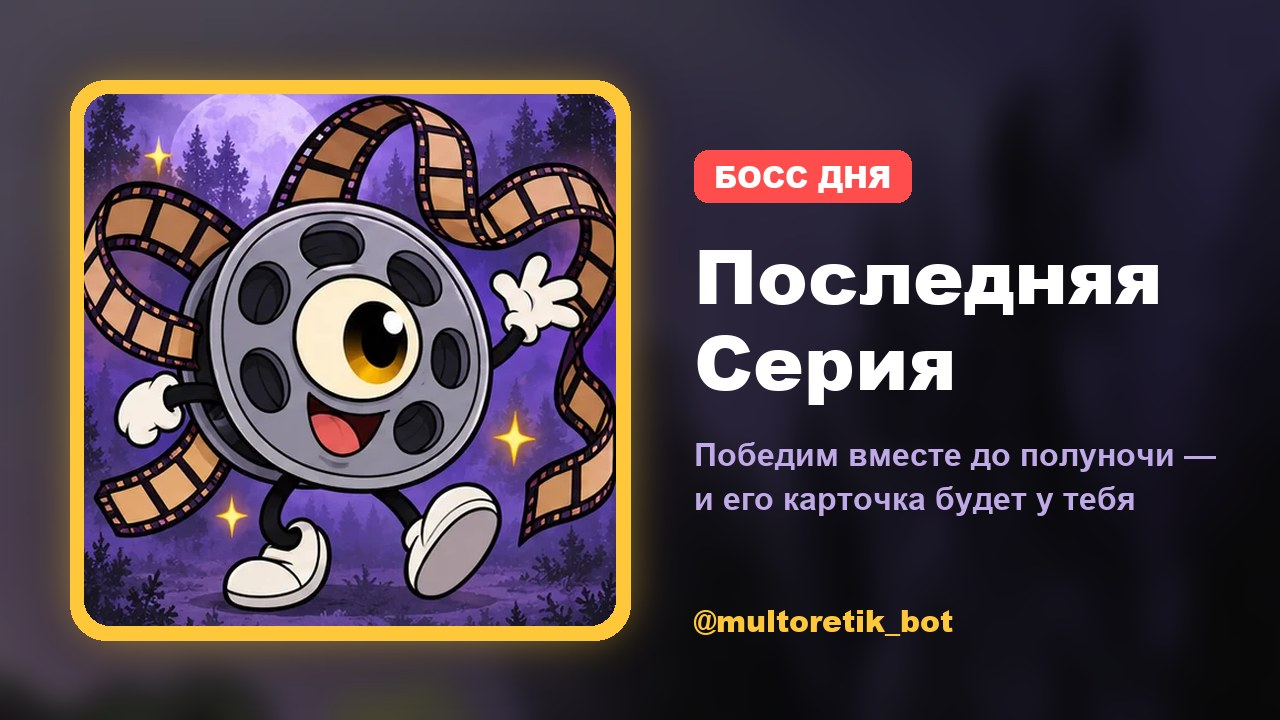
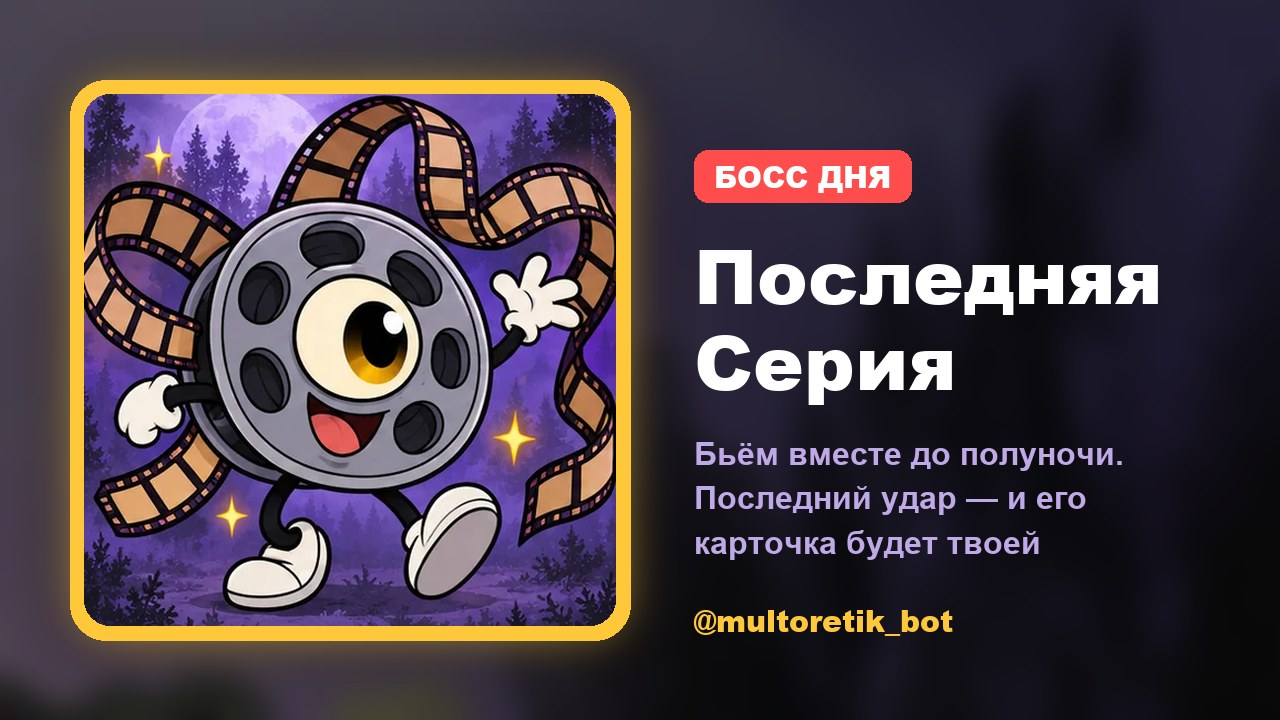
Карточка босса — только за последний удар, участникам — редкая карточка и монеты

Changed region(s): [[0.5312, 0.6111, 0.9375, 0.7944]]

diff --git a/web/index.html b/web/index.html
@@ -641,13 +641,13 @@ async function loadBoss(quiet) {
 function renderBoss() {
   const b = B.st;
   if (!b || !b.card) { $("#boss").innerHTML = `<div class="muted">Босс скоро появится</div>`; return; }
-  const claim = b.canClaim ? `<button class="btn gold" id="bclaim">${icon("i-gift")}Забрать карточку босса</button>`
-    : b.defeated && b.claimed ? `<p class="muted" style="margin-top:12px">Карточка у тебя. Завтра — новый босс</p>`
+  const claim = b.canClaim ? `<button class="btn gold" id="bclaim">${icon("i-gift")}${b.killer ? "Забрать карточку босса" : "Забрать награду"}</button>`
+    : b.defeated && b.claimed ? `<p class="muted" style="margin-top:12px">Награда у тебя. Завтра — новый босс</p>`
     : b.defeated ? `<p class="muted" style="margin-top:12px">Победили без тебя — завтра новый босс</p>` : "";
   $("#boss").innerHTML = `<div class="bh"><span class="badge2">${icon("i-sword", 18)}Босс дня</span><span class="muted" id="bleft">${b.defeated ? "повержен" : "сбежит через " + mskLeft()}</span></div>
     <button class="bossart ${b.defeated ? "dead" : ""}" id="bossart" aria-label="Ударить босса">${cardHtml(b.card, 0, true)}${b.defeated ? `<span class="deadtag">Повержен!</span>` : ""}</button>
     <div class="hp"><i id="hpbar"></i><span id="hptext"></span></div>
-    <div class="bmeta"><span>твои удары: <b id="bmy">0</b></span><span>${b.need}+ ударов — карточка твоя</span></div>
+    <div class="bmeta"><span>твои удары: <b id="bmy">0</b></span><span>последний удар — карточка босса</span></div>
     ${claim}<div class="btop" id="btop"></div>`;
   updBoss();
   const art = $("#bossart");
@@ -658,7 +658,7 @@ function renderBoss() {
     const r = await call("boss_claim");
     if (r.error) { toast(r.error); $("#bclaim").disabled = false; return; }
     B.st.canClaim = false; B.st.claimed = true; renderBoss();
-    drop("Босс повержен!", `+${r.coins} монет${r.killer ? " · за последний удар — ещё карточка" : ""}`, r.cards);
+    drop(r.killer ? "Последний удар — твой!" : "Босс повержен!", `+${r.coins} монет · ${r.killer ? "карточка босса твоя" : "награда за командную победу"}`, r.cards);
   };
 }
 function updBoss() {

diff --git a/supabase/functions/bot/index.ts b/supabase/functions/bot/index.ts
@@ -312,9 +312,10 @@ async function bossClaim(u: TgUser) {
   const { data: ok } = await db.from("boss_hits").update({ claimed: true }).eq("day", b.day).eq("tg_id", u.id)
     .eq("claimed", false).gte("hits", BOSS_MIN_HITS).select("tg_id");
   if (!ok?.length) return json({ error: `Награда — тем, кто нанёс от ${BOSS_MIN_HITS} ударов` }, 400);
-  const bc = (await cards()).find((c) => c.id === b.card_id);   // каждому участнику — сама карточка босса
-  const list = bc ? [bc] : [];
-  if (b.last_hit_by === u.id) list.push(...(await roll(1, true)));   // последний удар — ещё и редкая
+  // 07.11 пользователь: «если ты побьёшь злодея — только тебе карточка, а не всем»: карточка босса — за последний удар,
+  // остальным участникам (от BOSS_MIN_HITS ударов) — случайная редкая или лучше и монеты
+  const bc = (await cards()).find((c) => c.id === b.card_id);
+  const list = b.last_hit_by === u.id && bc ? [bc] : await roll(1, true);
   return json({ ok: true, cards: await give(u.id, list, 15), coins: 15, killer: b.last_hit_by === u.id });
 }
 
@@ -398,7 +399,7 @@ async function announceBoss() {
   const card = (await cards()).find((c) => c.id === b.card_id);
   if (!card) return 0;
   const { data: users } = await db.from("users").select("tg_id").eq("notify", true).eq("blocked", false).limit(5000);
-  const text = `⚔ Новый босс дня — «${card.name}»!\n\nБьём его все вместе до полуночи. Победим — каждый, кто нанёс от ${BOSS_MIN_HITS} ударов, получит эту карточку себе в коллекцию.\n\nЗаходи и жми по боссу 👇`;
+  const text = `⚔ Новый босс дня — «${card.name}»!\n\nБьём его все вместе до полуночи. Кто нанесёт последний удар — заберёт его карточку себе! Остальным, кто нанёс от ${BOSS_MIN_HITS} ударов, — редкая карточка и монеты.\n\nЗаходи и жми по боссу 👇`;
   const reply_markup = { inline_keyboard: [[{ text: "⚔ Бить босса", web_app: { url: `${APP}?tab=games` } }]] };
   let sent = 0;
   for (const [i, us] of (users || []).entries()) {

diff --git a/tools/gen_sheets_3.py b/tools/gen_sheets_3.py
@@ -1,0 +1,79 @@
+"""07.11.2026: ещё 54 карточки (листы 18–26) — пользователь: «добавил бы побольше карточек, пока всего 100».
+Половина — злодеи из уже вышедших серий сети (зритель видел «Странного парикмахера» в ролике — теперь может его собрать),
+плюс свои наборы для ПеппаРетика, БарбоРетика, SOIKAC и Анти Котополиса, где карточек меньше всего.
+Рисует так же, как tools/gen_sheets_2.py (ChatGPT, образцы стиля art/sheet1.png и art/sheet5.png).
+Запускать, когда RETIKO не делает роликов (ночью): отдельный процесс не делит очередь браузера с роликами.
+python tools/gen_sheets_3.py [номера листов]    → art/sheetN.png + art/cartoon_cards.json; нарезка и база — tools/cut_cards.py"""
+import os, sys
+sys.path.insert(0, os.path.dirname(os.path.abspath(__file__)))
+import gen_sheets_2 as G
+
+C, R, E, L = 'common', 'rare', 'epic', 'legend'
+G.SHEETS = {
+    18: ('КотоРетик', 'злодеев из удалённых серий мультсериала «Три кота»', [
+        ('kr-kurer', 'Ночной курьер', R, 'кот-курьер в кепке с огромной коробкой, из щели коробки светятся глаза'),
+        ('kr-parikmaher', 'Странный парикмахер', E, 'кот-парикмахер с ножницами-расчёсками в обеих лапах, улыбка слишком широкая, зеркало за ним пустое'),
+        ('kr-doktor', 'Странный доктор', R, 'кот-доктор в белом халате и маске, стетоскоп шевелится как змейка, очки светятся'),
+        ('kr-printer', 'Странный принтер', C, 'домашний принтер с кошачьими ушами, из лотка выползает лист с нарисованным глазом'),
+        ('kr-telefon', 'Странный телефон', C, 'старый кнопочный телефон с кошачьим хвостом, на экране светится «звонит ты»'),
+        ('kr-lishniy', 'Лишний котёнок', R, 'четвёртый котёнок, похожий сразу на всех трёх, стоит в темноте коридора')]),
+    19: ('МультоРетик', 'злодеев из удалённых серий «Три кота» на канале МультоРетик', [
+        ('mr-ded-zaranee', 'Дедушка, который знает заранее', E, 'кот-дедушка-моряк в кресле, не моргает, над ним облачко со следующим вопросом'),
+        ('mr-slasten', 'Повар Сластён', R, 'кот-повар в колпаке с половником, в кастрюле светится что-то сладкое и тянется к зрителю'),
+        ('mr-uchitelnica', 'Странная учительница', R, 'кошка-учительница с указкой у доски, на доске нарисованы три котёнка и знак вопроса'),
+        ('mr-drugaya-karamelka', 'Другая Карамелька', E, 'кошечка в розовом платье с бантом, отражение в луже — другое, оно машет'),
+        ('mr-babushka-ranshe', 'Бабушка, приехавшая раньше', C, 'кошка-бабушка с чемоданом стоит в дверях ночью, за окном ещё светит луна'),
+        ('mr-mama-ne-morgaet', 'Мама, которая не моргает', L, 'кошка-мама в фартуке смотрит прямо на зрителя огромными немигающими глазами, золотое сияние')]),
+    20: ('СмешаРетик', 'злодеев из удалённых серий мультсериала «Смешарики»', [
+        ('sr-nenast-barash', 'Ненастоящий Бараш', R, 'баран-поэт с блокнотом, рога закручены в другую сторону, буквы в блокноте ползут'),
+        ('sr-zavodnaya-nyusha', 'Заводная Нюша', E, 'свинка Нюша как заводная кукла, из спины торчит большой ключ, движения дёрганые'),
+        ('sr-nenast-karkarych', 'Ненастоящий Кар-Карыч', R, 'ворон в цилиндре, перья как вырезанные из бумаги, тень без цилиндра'),
+        ('sr-zastyvshaya', 'Застывшая Пандочка', C, 'маленькая панда замерла посреди шага, вокруг неё застыли в воздухе снежинки'),
+        ('sr-zavodnoy-karkarych', 'Заводной Кар-Карыч', C, 'ворон-шарманщик с заводной шарманкой, из шарманки вылетают ноты-глазки'),
+        ('sr-sovunya-polnoch', 'Совунья в полночь', E, 'сова-бабушка в очках и шали, за ней часы, стрелки показывают 13')]),
+    21: ('ПеппаРетик', 'злодеев из удалённых серий мультсериала «Свинка Пеппа»', [
+        ('pp-papa-nochnoy', 'Ночной Папа Свин', E, 'папа-свин стоит в тёмной кухне с фонариком, свет фонарика падает только на его улыбку'),
+        ('pp-strannyi-george', 'Странный Джордж', R, 'маленький поросёнок Джордж с игрушечным динозавром, у динозавра настоящие светящиеся глаза'),
+        ('pp-nenast-suzi', 'Ненастоящая Сьюзи', R, 'овечка Сьюзи, шерсть из ваты, на боку видна застёжка-молния'),
+        ('pp-ded-golos', 'Дедушка с другим голосом', E, 'дедушка-свин в фуражке говорит в рупор, из рупора выходят чужие тёмные волны звука'),
+        ('pp-pedro', 'Педро Пони-Ретик', C, 'пони в очках, очки запотели изнутри, за стёклами две светящиеся точки'),
+        ('pp-denni', 'Дэнни Пёс-Ретик', C, 'щенок-моряк в бескозырке, тень от него — большой волк')]),
+    22: ('ПеппаРетик', 'героев мультсериала «Свинка Пеппа»', [
+        ('pp-zoe', 'Зои Зебра-Ретик', C, 'зебра-девочка, полоски на ней медленно меняют направление'),
+        ('pp-kendi', 'Кэнди Кошка-Ретик', C, 'кошечка в платье с бантом держит шарик, на шарике нарисовано её лицо'),
+        ('pp-gazel', 'Мадам Газель-Ретик', R, 'учительница-газель с гитарой, струны светятся, в классе за ней пустые парты'),
+        ('pp-teddy', 'Плюшевый Тедди', R, 'плюшевый мишка Пеппы сидит на кровати, одна пуговица-глаз висит на нитке и смотрит'),
+        ('pp-dino', 'Мистер Динозавр-Ретик', E, 'игрушечный зелёный динозавр Джорджа вырос до потолка, в зубах — маленькая подушка'),
+        ('pp-luzha', 'Лужа, которая смотрит', C, 'грязная лужа после дождя, в ней отражаются глаза, которых нет вокруг')]),
+    23: ('БарбоРетик', 'злодеев из удалённых серий мультсериала «Барбоскины»', [
+        ('bb-roza-znaet', 'Роза, которая знает', E, 'щенок-девочка Роза с косметичкой, в зеркальце видно, что сейчас случится'),
+        ('bb-strannaya-liza', 'Странная Лиза', R, 'щенок-девочка Лиза улыбается, а её тень на стене плачет'),
+        ('bb-babushka', 'Бабушка Барбоскиных-Ретик', C, 'собака-бабушка с подносом пирожков, пирожки подмигивают'),
+        ('bb-dedushka', 'Дедушка Барбоскин-Ретик', R, 'пёс-дедушка с тростью и шляпой, часы на цепочке идут назад'),
+        ('bb-lishniy', 'Лишний Барбоскин', L, 'шестой щенок семьи, которого никто не помнит, стоит в конце строя, золотое сияние'),
+        ('bb-oshejnik', 'Ошейник без собаки', C, 'красный ошейник с биркой висит в воздухе, будто его кто-то носит')]),
+    24: ('SOIKAC', 'теорий и тайн мультсериалов', [
+        ('so-krolik', 'Кролик — хозяин города', E, 'кролик в костюме и цилиндре на троне из моркови, за ним ночной город из «Свинки Пеппы»'),
+        ('so-teoretik', 'Теоретик с красной нитью', R, 'сойка в очках у доски с фотографиями героев, соединёнными красными нитями'),
+        ('so-arhiv', 'Архив удалённых серий', C, 'пыльная полка с кассетами, на одной надпись стёрта, из неё выглядывает глаз'),
+        ('so-nochnoy-efir', 'Ночной эфир', C, 'старый телевизор с настроечной таблицей, из экрана тянется маленькая лапка'),
+        ('so-glaz', 'Глаз за кадром', R, 'огромный глаз выглядывает из-за края кадра мультфильма, вокруг рамка плёнки'),
+        ('so-podskazka', 'Подсказка в титрах', C, 'ленты финальных титров, одна строчка светится и складывается в стрелку')]),
+    25: ('Анти Котополис', 'жителей города наоборот (мир «Три кота», всё вывернуто)', [
+        ('ak-anti-nudnik', 'Анти-Нудник', R, 'котёнок-малыш в подгузнике, вместо соски — свисток, глаза-спирали'),
+        ('ak-anti-babushka', 'Анти-Бабушка', C, 'кошка-бабушка распускает свитер вместо вязания, клубок катится сам'),
+        ('ak-anti-dedushka', 'Анти-Дедушка', R, 'кот-дедушка-моряк, корабль в бутылке у него в лапах плывёт вверх дном'),
+        ('ak-anti-gonya', 'Анти-Гоня', C, 'котёнок в кепке задом наперёд, ходит спиной вперёд, следы ведут назад'),
+        ('ak-anti-lapochka', 'Анти-Лапочка', C, 'кошечка с косичками, кукла в её лапах держит её саму'),
+        ('ak-chernoe-solnce', 'Чёрное солнце Котополиса', E, 'чёрное солнце с кошачьими ушами висит над перевёрнутым городом')]),
+    26: ('МультоРетик', 'тайн мира МультоРетика (свои персонажи канала)', [
+        ('mr-arhivarius', 'Архивариус удалённых серий', L, 'высокий тёмный хранитель в плаще с фонарём и связкой кассет, золотое сияние'),
+        ('mr-montazher', 'Монтажёр без лица', E, 'фигура за монтажным столом, вместо лица — пустой кадр плёнки'),
+        ('mr-pult', 'Пульт, который переключает сам', R, 'телевизионный пульт с маленькими ножками, кнопки светятся и жмутся сами'),
+        ('mr-zastavka', 'Заставка задом наперёд', C, 'мультяшная заставка с радугой, буквы перевёрнуты и тянутся вниз'),
+        ('mr-plenochnyi-cherv', 'Плёночный червь', C, 'червячок из киноплёнки, в каждом кадре на нём чьё-то лицо'),
+        ('mr-nochnoy-retik', 'Ночной Ретик', L, 'Ретик-мальчик с лупой в ночном лесу, в лупе видно то, чего нет, золотое сияние')]),
+}
+
+if __name__ == '__main__':
+    G.main()

diff --git a/tools/boss_poster.py b/tools/boss_poster.py
@@ -55,7 +55,7 @@ def poster(card, out):
         d.text((tx, y), ln, font=fnt, fill='white', anchor='lt')
         y += int(fnt.size * 1.12)
     y += 22
-    for ln in ['Победим вместе до полуночи —', 'и его карточка будет у тебя']:
+    for ln in ['Бьём вместе до полуночи.', 'Последний удар — и его', 'карточка будет твоей']:
         d.text((tx, y), ln, font=font(FR, 32), fill=MUTED, anchor='lt')
         y += 44
     d.text((tx, H - 110), '@multoretik_bot', font=font(FB, 30), fill=RARE['legend'], anchor='lt')
